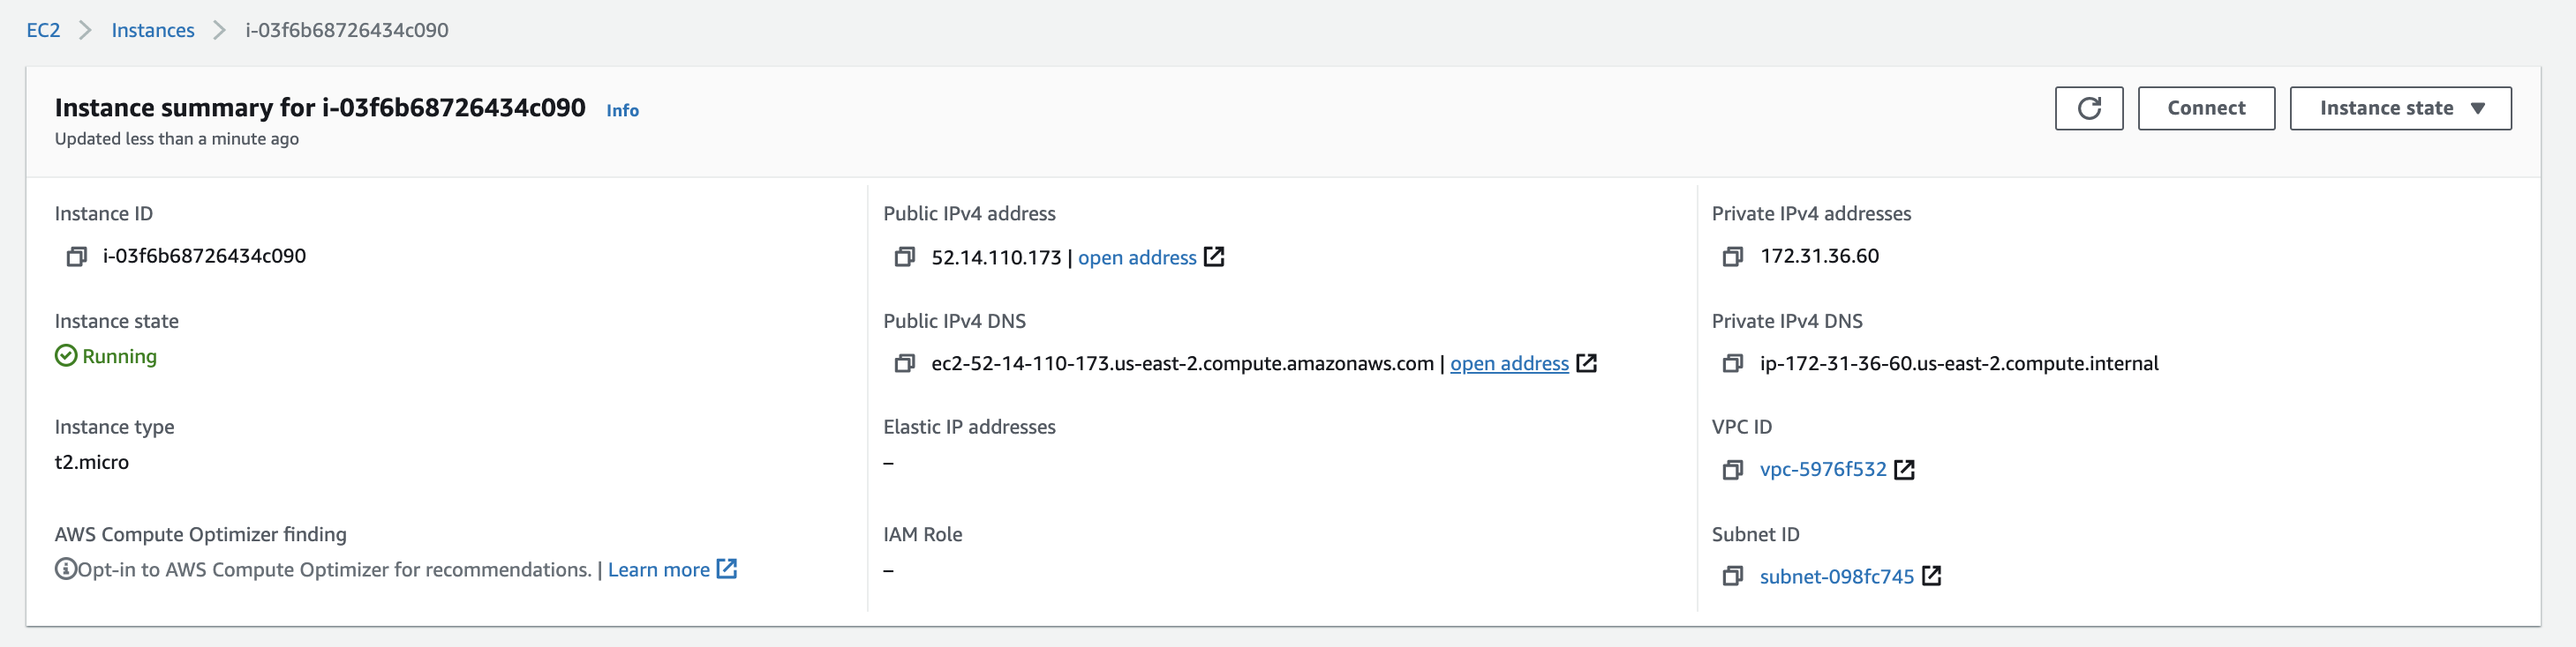
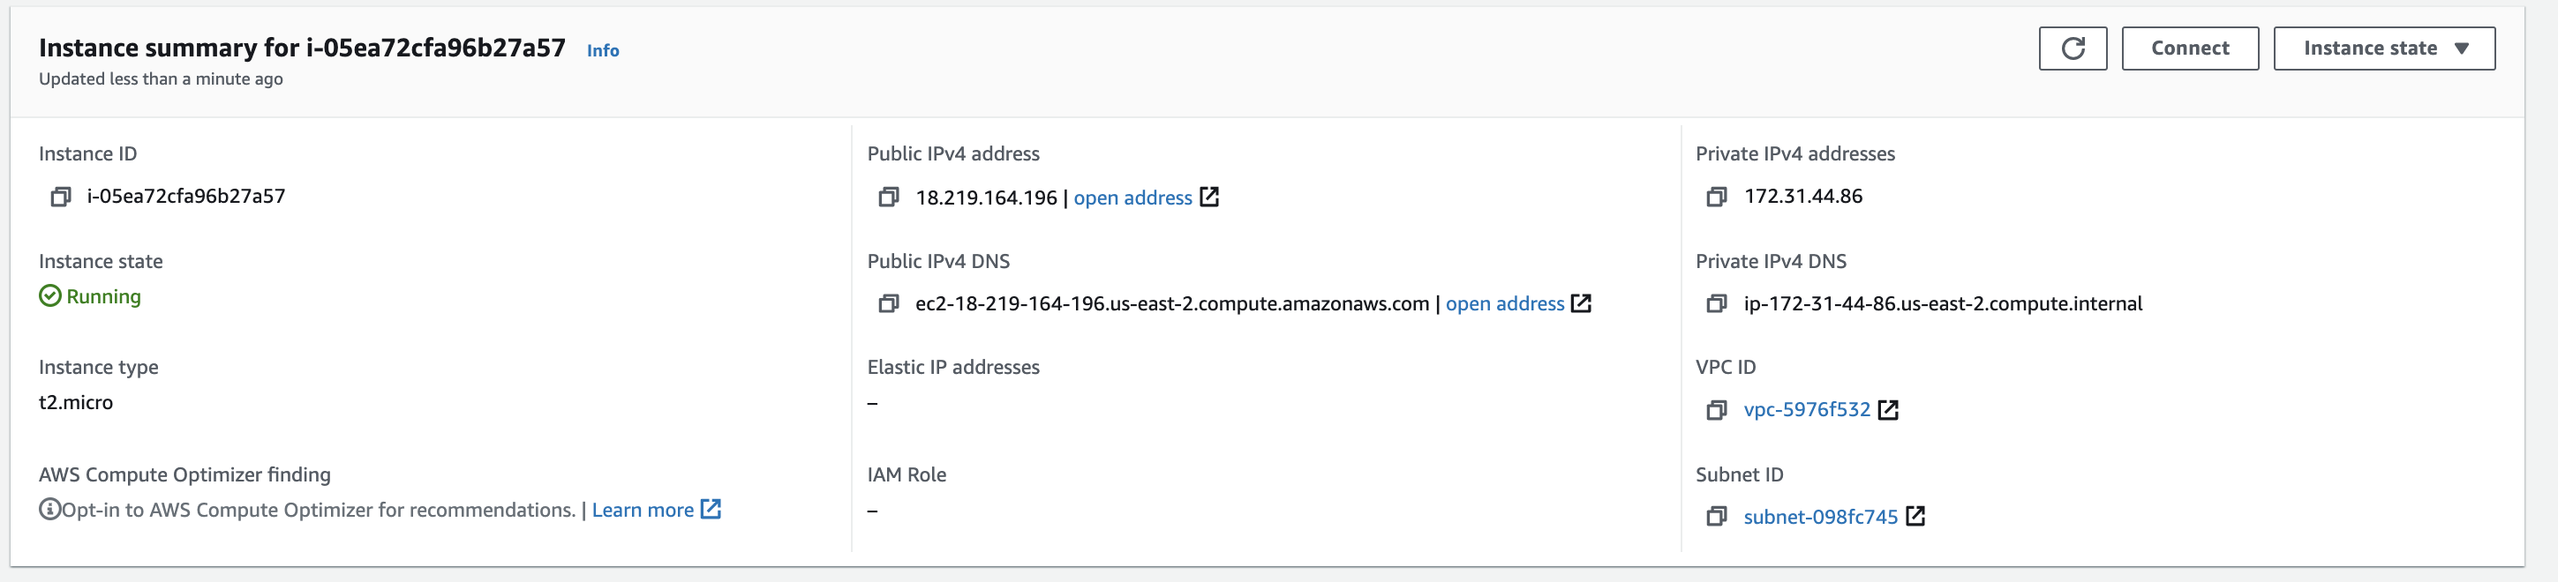
Fixed HTTPS access for AWS instances

diff --git a/src/introduction/abtnode-setup/index.md b/src/introduction/abtnode-setup/index.md
@@ -181,15 +181,20 @@ You can run ABT Node on AWS using [AWS Marketplace](https://aws.amazon.com/marke
 
 ### Access ABT Node
 
-AWS will take some time to create an application instance. After the confirmation message, you should open the EC2 Dashboard to get the Elastic IP of the ABT Node instance.
+AWS will take some time to create an application instance. After the confirmation message, you should open the EC2 Dashboard to get the Public IP, and AWS-provided sub-domain of the ABT Node instance.
 
 ![EC2 Instance](./images/aws_ec2_view.png)
 
-You can access the ABT Node on `/admin` request path (`http://52.14.110.173/admin/`). After this, you must agree to License terms before accessing the ABT Node dashboard.
+You can access the ABT Node on `/admin` request path using either of the following locations :
+- **Non secured Access** : You can access ABT Node on HTTP by using the IP address (`http://18.219.164.196/admin`) or the AWS-provided sub-domain (`http://ec2-18-219-164-196.us-east-2.compute.amazonaws.com/admin`).
+![HTTP Access](./images/aws_ec2_http_access.png)
 
-![AWS ABT Node Terms](./images/aws_acceptterms.png)
+- **Secured Access** : ArcBlock provides HTTPS access to AWS hosted ABT Nodes using a convention-based sub-domain(`ipv4convention.ip.abtnet.io`). You can determine the sub-domain by replacing the dot(`.`) separator in IPv4 address with the dash(`-`) separator. The above hosted ABT Node is available on `https://18-219-164-196.ip.abtnet.io/admin`.
+![HTTPS Access](./images/aws_ec2_https_access.png)
 
-*ABT Node also works on HTTPS (`https://52.14.110.173/admin/`) using a default certificate. The browser gives an error of invalid certificate as it is unable to validate certificate DNS record. You must accept the warning to continue forward.*
+ArcBlock recommends using the secured approach over the non-secured approach. The admin page presents License terms to which you must agree before accessing the ABT Node dashboard.
+
+*ABT Node works on HTTPS using a sub-domain certificate (`ip.abtnet.io`). Accessing it using AWS provided public IPv4 address(`http://18.219.164.196/admin`) or sub-domain(`https://ec2-18-219-164-196.us-east-2.compute.amazonaws.com/admin`) gives an error of invalid certificate.*
 
 [Linux]:   https://www.linux.org
 [macOS]:   https://www.apple.com/macos
